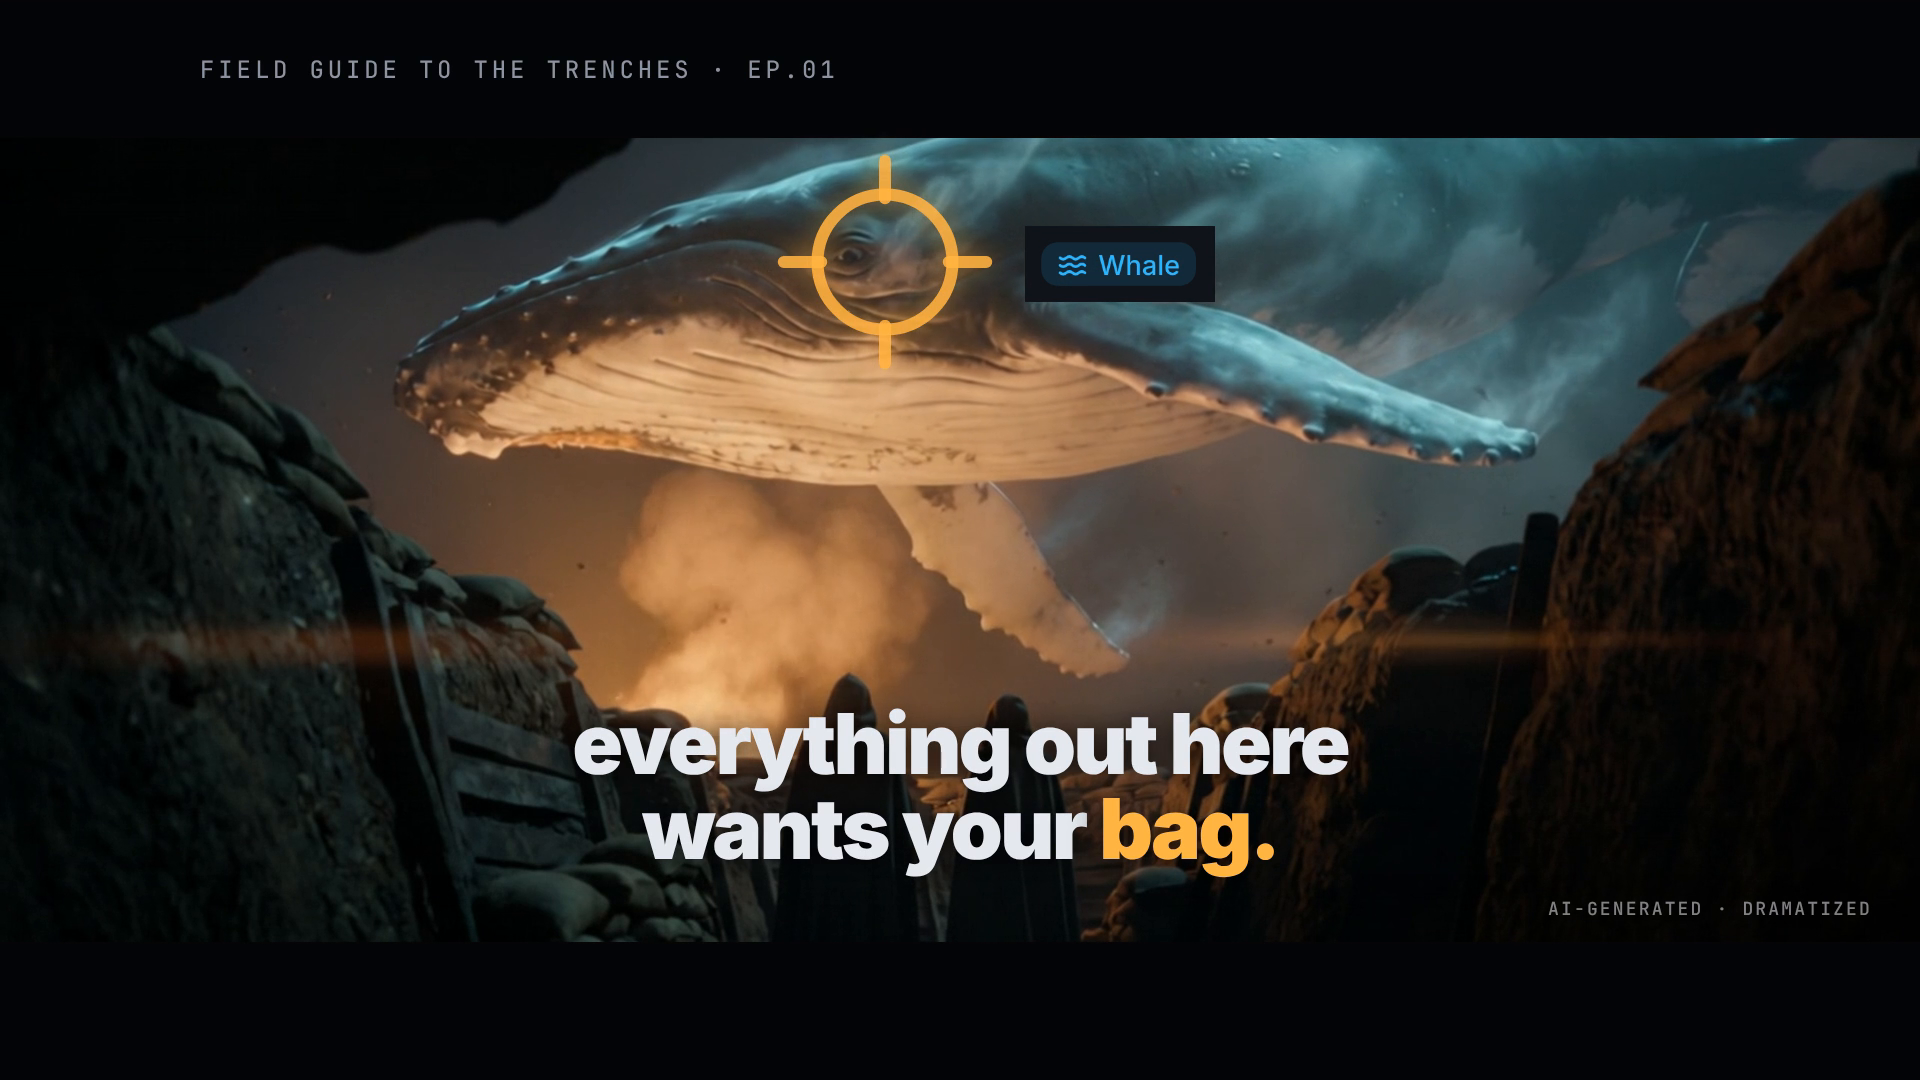
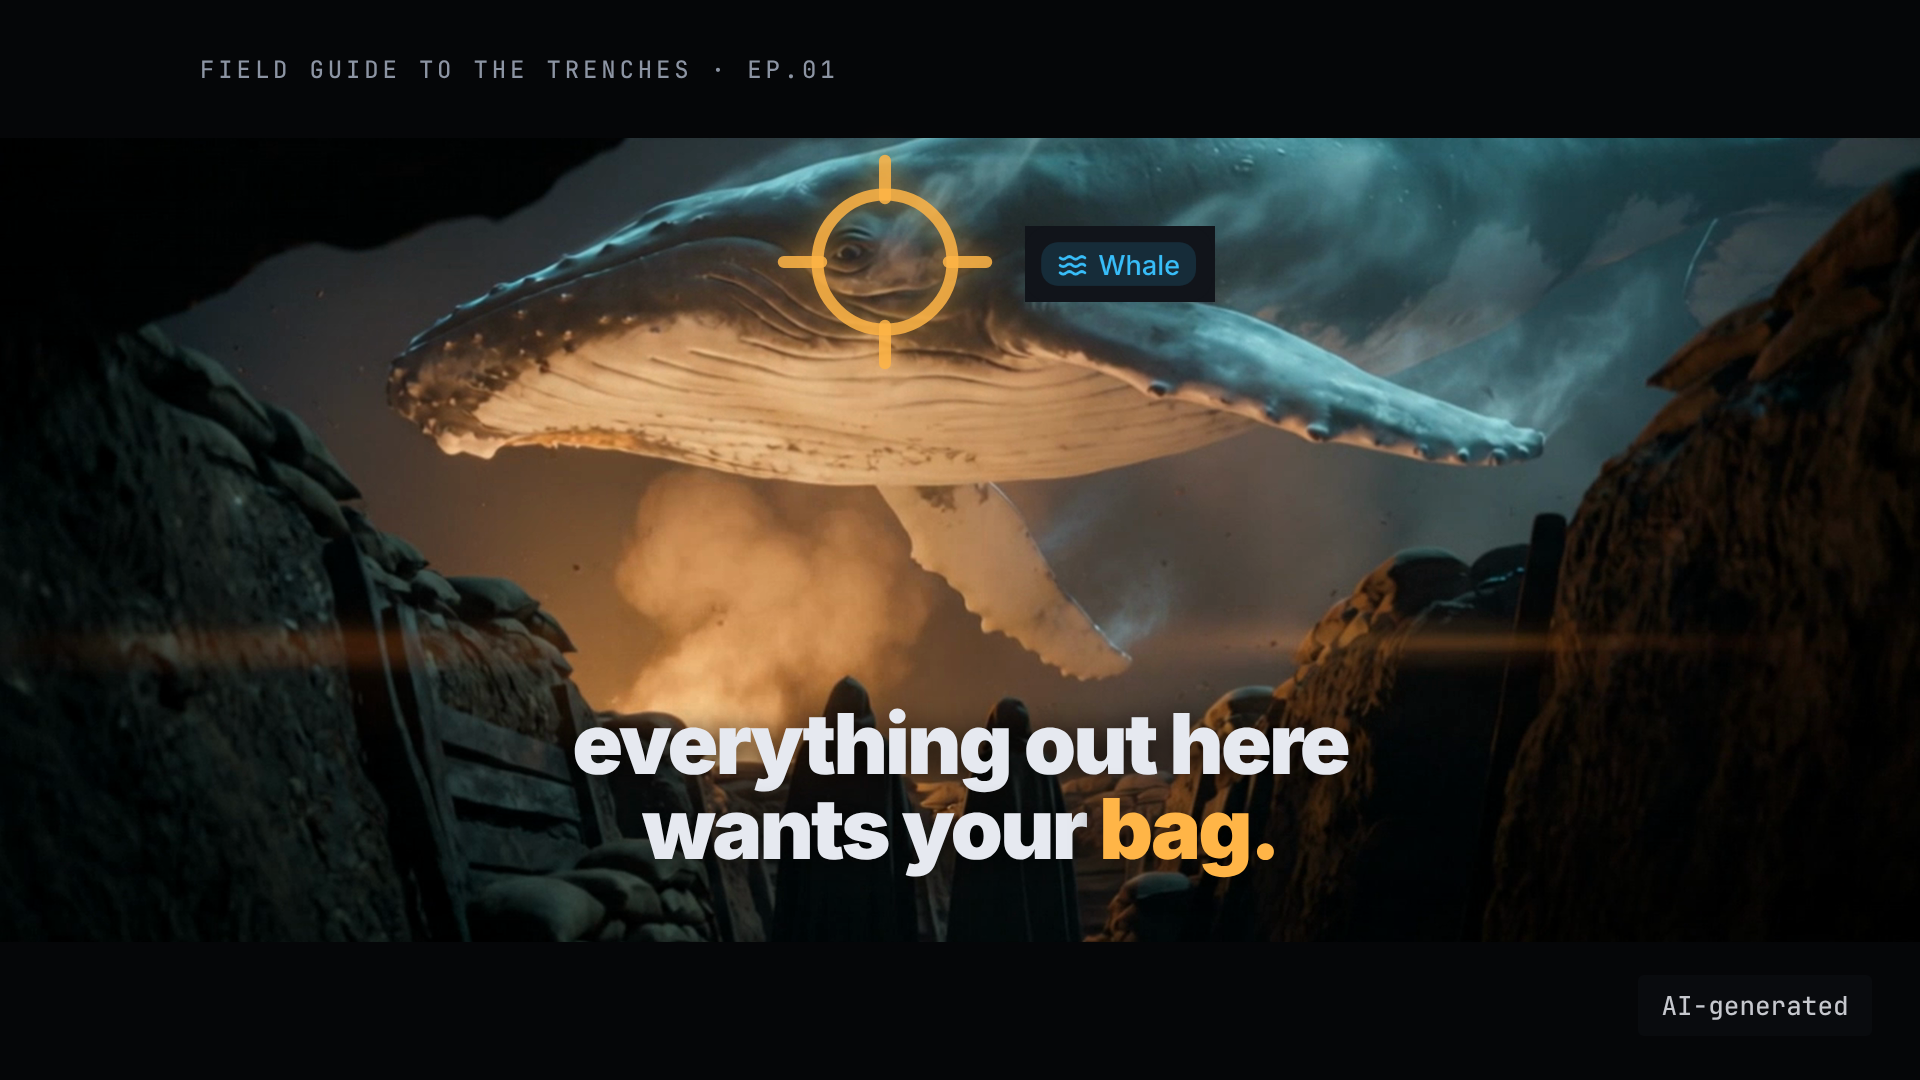
header-alt: ledger-clean subline, phone-size type, no KOL chip; d1-field-guide rebuilt with the exact-case AI label
Claude-Session: https://claude.ai/code/session_017xU29rumcgkrYhmPPFcfdL

diff --git a/marketing/tools/profile.py b/marketing/tools/profile.py
@@ -10,19 +10,19 @@ avatar = f"""<!doctype html><html><head><meta charset=utf-8><style>*{{margin:0}}
 <div style="position:absolute;inset:0;background:radial-gradient(circle at 50% 50%,rgba(255,181,71,.16),transparent 58%),#0A0C10"></div>
 <div style="position:absolute;left:50%;top:50%;width:372px;height:372px;transform:translate(-50%,-50%);filter:drop-shadow(0 0 10px rgba(255,181,71,.45))">{MARK.replace('<svg ','<svg style="width:100%;height:100%" ')}</div></body></html>"""
 
-chips = [("SMART MONEY","#4ADE80"),("KOL","#C084FC"),("DEV","#FB923C"),("SNIPER","#F87171"),("INSIDER","#F472B6"),("BUNDLER","#FACC15"),("WHALE","#38BDF8"),("FRESH","#2DD4BF"),("BOT","#94A3B8")]
-chip_html = "".join(f'<span class="mono" style="font-weight:600;font-size:15px;letter-spacing:.04em;color:{c};background:{c}1f;border:1px solid {c}40;border-radius:6px;padding:5px 9px">{t}</span>' for t,c in chips)
+chips = [("SMART MONEY","#4ADE80"),("DEV","#FB923C"),("SNIPER","#F87171"),("INSIDER","#F472B6"),("BUNDLER","#FACC15"),("WHALE","#38BDF8"),("FRESH","#2DD4BF"),("BOT","#94A3B8")]
+chip_html = "".join(f'<span class="mono" style="font-weight:600;font-size:20px;letter-spacing:.04em;color:{c};background:{c}1f;border:1px solid {c}40;border-radius:6px;padding:6px 11px">{t}</span>' for t,c in chips)
 reticle = """<svg viewBox="0 0 32 32" style="width:100%;height:100%"><circle cx="16" cy="16" r="9" fill="none" stroke="#FFB547" stroke-width="2.4"/><path d="M16 3.5v4.5M16 24v4.5M3.5 16H8M24 16h4.5" stroke="#FFB547" stroke-width="2.4" stroke-linecap="round"/></svg>"""
 header_alt = f"""<!doctype html><html><head><meta charset=utf-8><style>*{{margin:0;box-sizing:border-box}}html,body{{width:1500px;height:500px;overflow:hidden;background:#0A0C10;color:#E6E9F0}}{FONTS}</style></head><body>
 <div style="position:absolute;inset:0;background-image:linear-gradient(rgba(140,148,163,.07) 1px,transparent 1px),linear-gradient(90deg,rgba(140,148,163,.07) 1px,transparent 1px);background-size:64px 64px"></div>
 <div style="position:absolute;left:-140px;top:-130px;width:760px;height:760px;opacity:.11">{reticle}</div>
 <div style="position:absolute;inset:0;background:radial-gradient(ellipse 30% 55% at 66% 45%,rgba(255,181,71,.26),transparent 100%)"></div>
 <div style="position:absolute;inset:0;background:repeating-linear-gradient(0deg,rgba(255,255,255,.03) 0 1px,transparent 1px 3px)"></div>
-<div class="mono" style="position:absolute;right:200px;top:86px;font-weight:600;font-size:15px;letter-spacing:.1em;color:#FFB547;border:1.5px solid #FFB547;border-radius:999px;padding:6px 14px">SOL · BASE · BSC · ETH · ROBINHOOD CHAIN</div>
-<div style="position:absolute;left:470px;right:200px;top:140px;display:flex;flex-direction:column;align-items:flex-end;text-align:right">
+<div class="mono" style="position:absolute;right:200px;top:86px;font-weight:600;font-size:20px;letter-spacing:.1em;color:#FFB547;border:1.5px solid #FFB547;border-radius:999px;padding:7px 16px">SOL · BASE · BSC · ETH · ROBINHOOD CHAIN</div>
+<div style="position:absolute;left:380px;right:200px;top:140px;display:flex;flex-direction:column;align-items:flex-end;text-align:right">
   <div style="font-weight:600;font-size:70px;letter-spacing:-.035em;line-height:1.02">see who's <span style="color:#FFB547">really</span> buying.</div>
-  <div class="mono" style="margin-top:14px;font-weight:600;font-size:19px;color:#8C94A3;letter-spacing:.02em">every wallet tagged before you buy · self-custody</div>
-  <div style="margin-top:22px;display:flex;flex-wrap:wrap;justify-content:flex-end;gap:8px;max-width:820px">{chip_html}</div>
+  <div class="mono" style="margin-top:14px;font-weight:600;font-size:21px;color:#8C94A3;letter-spacing:.01em">snipers, bundlers, insiders, the dev: tagged · self-custody</div>
+  <div style="margin-top:22px;display:flex;flex-wrap:wrap;justify-content:flex-end;gap:8px;max-width:900px">{chip_html}</div>
 </div></body></html>"""
 jobs=[]
 for name, html, w, h in (("avatar", avatar, 400, 400), ("header-alt", header_alt, 1500, 500)):

diff --git a/marketing/tools/d1/build_d1.py b/marketing/tools/d1/build_d1.py
@@ -1,0 +1,28 @@
+"""Rebuild x/posts/d1-field-guide.png: trailer shot 1 at t=1.0 s (c01 at 1.4 s, 1.25% push) + the
+trailer's shot-1 overlays + the AI corner label in exact case (BRAND_GUIDE §10, stills: bottom-right).
+
+Usage: python3 build_d1.py scratch_dir
+"""
+import subprocess
+import sys
+
+from PIL import Image
+
+M = "/home/user/Gmgn/marketing"
+OV = f"{M}/video/overlays/trailer"
+S = sys.argv[1]
+z = 1.0 + 0.03 * (1.0 / 2.4)
+subprocess.run(["ffmpeg", "-v", "error", "-y", "-ss", "1.4", "-i", f"{M}/video/clips/c01.mp4", "-frames:v", "1",
+                "-vf", f"scale=3840:2160:flags=lanczos,crop=iw/{z}:ih/{z},scale=1920:1080:flags=lanczos", f"{S}/f.png"], check=True)
+img = Image.open(f"{S}/f.png").convert("RGBA")
+for n in ("letterbox", "s1-hook", "s1-label", "s1-reticle", "s1-chip"):
+    img.alpha_composite(Image.open(f"{OV}/{n}.png").convert("RGBA"))
+html = """<!doctype html><html><head><meta charset=utf-8><style>*{margin:0}html,body{width:1920px;height:1080px;background:transparent}
+.l{position:absolute;right:48px;bottom:44px;font-family:'JetBrains Mono',monospace;font-weight:500;font-size:26px;color:rgba(230,233,240,.85);
+background:rgba(10,12,16,.8);border-radius:6px;padding:.5em .9em}</style></head><body><div class=l>AI-generated</div></body></html>"""
+open(f"{S}/label.html", "w").write(html)
+open(f"{S}/jobs.json", "w").write(f'[{{"src":"{S}/label.html","out":"{S}/label.png","width":1920,"height":1080,"transparent":true,"wait":200}}]')
+subprocess.run(["node", f"{M}/tools/render.mjs", f"{S}/jobs.json"], check=True)
+img.alpha_composite(Image.open(f"{S}/label.png").convert("RGBA"))
+img.convert("RGB").save(f"{M}/x/posts/d1-field-guide.png")
+print("wrote d1-field-guide.png")
